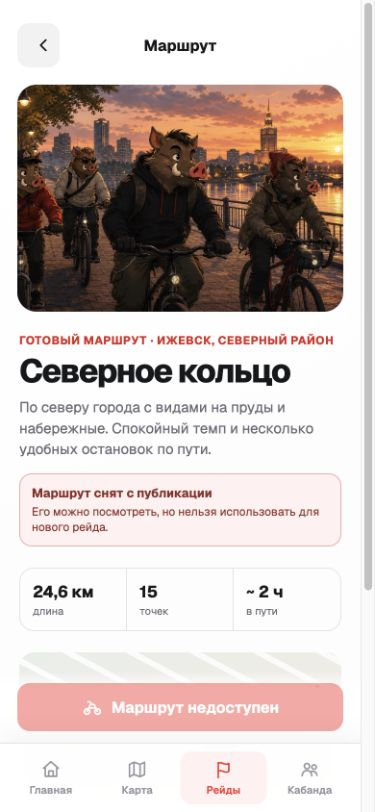
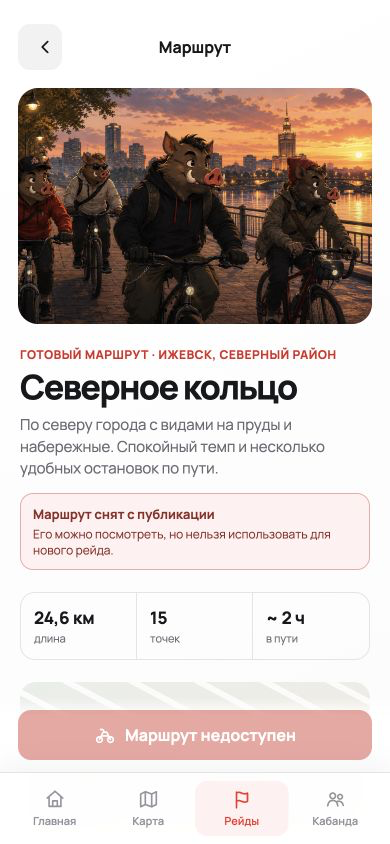
fix(design): close raids acceptance gaps

diff --git a/apps/pwa/src/features/raids-design/raids-design.css b/apps/pwa/src/features/raids-design/raids-design.css
@@ -1,13 +1,14 @@
 .rdp-root {
   --rdp-red: #f42d29;
   --rdp-red-dark: #d92824;
+  --rdp-action: #d62f2a;
   --rdp-ink: #17181b;
   --rdp-muted: #696b72;
   --rdp-line: #e4e4e7;
   min-height: 100dvh;
   color: var(--rdp-ink);
   background: #f1f1f2;
-  font-family: "Geist Variable", Geist, ui-sans-serif, system-ui, sans-serif;
+  font-family: "Manrope Variable", Manrope, ui-sans-serif, system-ui, sans-serif;
 }
 .rdp-root *, .rdp-root *::before, .rdp-root *::after { box-sizing: border-box; }
 .rdp-root button, .rdp-root select { font: inherit; }
@@ -17,7 +18,7 @@
 .rdp-page { min-height: 100dvh; padding: max(24px, env(safe-area-inset-top)) 18px calc(104px + env(safe-area-inset-bottom)); background: linear-gradient(155deg, #fff 0%, #fbfbfc 100%); }
 .rdp-heading { display: flex; min-height: 64px; align-items: start; justify-content: space-between; gap: 16px; }
 .rdp-heading h1 { margin: 5px 0 0; font-size: 40px; font-weight: 760; letter-spacing: -.055em; line-height: .95; }
-.rdp-new { display: inline-flex; min-height: 48px; align-items: center; gap: 5px; border: 0; border-radius: 12px; padding: 0 15px; color: #fff; background: linear-gradient(135deg, #f22e29, #ec3f32); box-shadow: 0 8px 18px rgb(240 46 41 / 20%); font-size: 16px; font-weight: 620; white-space: nowrap; }
+.rdp-new { display: inline-flex; min-height: 48px; align-items: center; gap: 5px; border: 0; border-radius: 12px; padding: 0 15px; color: #fff; background: linear-gradient(135deg, #d62f2a, #c92d28); box-shadow: 0 8px 18px rgb(214 47 42 / 20%); font-size: 16px; font-weight: 650; white-space: nowrap; }
 .rdp-new span { font-size: 25px; font-weight: 320; line-height: 0; }
 .rdp-section { display: grid; gap: 8px; margin-top: 14px; }
 .rdp-heading + .rdp-section { margin-top: 0; }
@@ -41,18 +42,23 @@
 .rdp-active__people { gap: 3px !important; }
 .rdp-mini-avatars { display: flex; width: 38px; flex: 0 0 38px; }
 .rdp-mini-avatars i { display: grid; width: 15px; height: 15px; margin-right: -5px; place-items: center; border: 1px solid #111; border-radius: 50%; color: #111; background: #fff; font-size: 6px; font-style: normal; font-weight: 750; }
-.rdp-active__cta { display: flex; width: 100%; min-height: 44px; align-items: center; justify-content: center; gap: 9px; border: 0; border-radius: 11px; color: #fff; background: linear-gradient(135deg, #ff2c28, #f72d29); font-size: 17px; font-weight: 640; }
+.rdp-active__cta { display: flex; width: 100%; min-height: 44px; align-items: center; justify-content: center; gap: 9px; border: 0; border-radius: 11px; color: #fff; background: linear-gradient(135deg, #d62f2a, #c92d28); font-size: 17px; font-weight: 680; }
 .rdp-idle { display: grid; grid-template-columns: auto 1fr auto; gap: 12px; align-items: center; border: 1px solid var(--rdp-line); border-radius: 17px; padding: 14px; }
 .rdp-idle > span { display: grid; width: 46px; height: 46px; place-items: center; border-radius: 50%; color: var(--rdp-red); background: #fff0ef; }
 .rdp-idle h3, .rdp-idle p { margin: 0; }.rdp-idle h3 { font-size: 15px; }.rdp-idle p { margin-top: 3px; color: var(--rdp-muted); font-size: 12px; }
-.rdp-idle button, .rdp-state button { min-height: 40px; border: 0; border-radius: 10px; padding: 0 12px; color: #fff; background: var(--rdp-red); font-weight: 650; }
+.rdp-idle button, .rdp-state button { min-height: 44px; border: 0; border-radius: 10px; padding: 0 12px; color: #fff; background: var(--rdp-action); font-weight: 680; }
 .rdp-list-card { overflow: hidden; border: 1px solid var(--rdp-line); border-radius: 15px; background: #fff; }
-.rdp-row { display: grid; width: 100%; min-height: 56px; grid-template-columns: auto minmax(0, 1fr) auto auto; gap: 9px; align-items: center; border: 0; border-bottom: 1px solid var(--rdp-line); padding: 7px 11px; color: var(--rdp-ink); background: #fff; text-align: left; }
+.rdp-row { display: grid; width: 100%; min-height: 60px; grid-template-columns: auto minmax(0, 1fr) auto; gap: 9px; align-items: center; border: 0; border-bottom: 1px solid var(--rdp-line); padding: 7px 11px; color: var(--rdp-ink); background: #fff; text-align: left; text-decoration: none; }
 .rdp-row:last-child { border-bottom: 0; }
 .rdp-row__icon { display: grid; width: 36px; height: 36px; place-items: center; border-radius: 50%; color: var(--rdp-red); background: #fff0ef; }
 .rdp-row__copy { display: grid; min-width: 0; gap: 2px; }
 .rdp-row__copy strong { overflow: hidden; font-size: 14px; font-weight: 680; text-overflow: ellipsis; white-space: nowrap; }
-.rdp-row__copy small { color: var(--rdp-muted); font-size: 12px; }
+.rdp-row__copy small { display: flex; min-width: 0; align-items: center; gap: 7px; color: var(--rdp-muted); font-size: 11px; }
+.rdp-row__copy small > span:first-child { overflow: hidden; text-overflow: ellipsis; white-space: nowrap; }
+.rdp-row__avatars { display: flex; flex: 0 0 auto; padding-left: 3px; }
+.rdp-row__avatars i { display: grid; width: 18px; height: 18px; margin-left: -4px; place-items: center; border: 1px solid #fff; border-radius: 50%; color: #fff; background: #18201c; font-size: 7px; font-style: normal; font-weight: 750; }
+.rdp-row__action { display: flex; align-items: center; gap: 6px; }
+.rdp-row__action > small { color: var(--rdp-red-dark); font-size: 10px; font-weight: 720; }
 .rdp-row__badge { border: 1px solid #ffc3c1; border-radius: 99px; padding: 4px 9px; color: var(--rdp-red-dark); font-size: 11px; font-weight: 680; white-space: nowrap; }
 .rdp-routes { display: grid; grid-auto-columns: 44%; grid-auto-flow: column; gap: 12px; overflow-x: auto; padding: 1px 1px 5px; scroll-snap-type: x mandatory; scrollbar-width: none; }
 .rdp-routes::-webkit-scrollbar { display: none; }
@@ -65,8 +71,8 @@
 .rdp-route-card__shade { position: absolute; inset: 0; background: linear-gradient(180deg, transparent 25%, rgb(0 0 0 / 15%) 48%, rgb(0 0 0 / 94%) 100%); }
 .rdp-route-card__copy { position: absolute; right: 12px; bottom: 12px; left: 12px; display: grid; gap: 8px; }
 .rdp-route-card__copy strong { font-size: 17px; font-weight: 720; letter-spacing: -.025em; line-height: 1.05; }
-.rdp-route-card__copy small { display: flex; gap: 8px; align-items: center; color: #e0e0e2; font-size: 10px; white-space: nowrap; }
-.rdp-route-card__copy small span { display: inline-flex; align-items: center; gap: 3px; }
+.rdp-route-card__copy small { display: flex; gap: 3px; align-items: center; color: #e0e0e2; font-size: 8px; white-space: nowrap; }
+.rdp-route-card__copy small span { display: inline-flex; align-items: center; gap: 1px; }
 .rdp-route-card__more { display: flex; width: 100%; min-height: 42px; align-items: center; justify-content: space-between; border: 0; padding: 0 12px; color: var(--rdp-red-dark); background: #fff; font-size: 12px; font-weight: 680; }
 .rdp-section--history { margin-bottom: 8px; }
 .rdp-row--history { grid-template-columns: auto minmax(0, 1fr) auto auto; }
@@ -97,15 +103,16 @@
 .rdp-mini-map { position: relative; height: 150px; overflow: hidden; border-radius: 16px; background: linear-gradient(135deg, #e9eee9, #f1ebe4); }.rdp-mini-map::before { position: absolute; inset: -20%; content: ""; background: repeating-linear-gradient(28deg, transparent 0 25px, rgb(255 255 255 / 80%) 25px 31px); }.rdp-mini-map svg { position: absolute; inset: 0; width: 100%; height: 100%; }.rdp-mini-map path { fill: none; stroke: var(--rdp-red); stroke-linecap: round; stroke-width: 4; }.rdp-mini-map i { position: absolute; width: 10px; height: 10px; border: 3px solid #fff; border-radius: 50%; background: var(--rdp-red); box-shadow: 0 2px 6px rgb(0 0 0 / 20%); }.rdp-mini-map i:nth-of-type(1) { top: 108px; left: 24px; }.rdp-mini-map i:nth-of-type(2) { top: 52px; left: 45%; }.rdp-mini-map i:nth-of-type(3) { top: 31px; right: 20px; }
 .rdp-inline-alert { display: grid; gap: 3px; margin-top: 14px; border: 1px solid #efaaa6; border-radius: 13px; padding: 11px 12px; color: #8e2c27; background: #fff1f0; }.rdp-inline-alert--warning { border-color: #eac381; color: #71400d; background: #fff7e9; }.rdp-inline-alert strong { font-size: 13px; }.rdp-inline-alert span { font-size: 12px; line-height: 1.35; }
 .rdp-route-points { margin-top: 20px; }.rdp-route-points summary { min-height: 44px; padding: 11px 0; font-size: 16px; font-weight: 720; cursor: pointer; }.rdp-points { display: grid; gap: 9px; margin: 0; padding: 0; list-style: none; counter-reset: points; }.rdp-points li { display: flex; align-items: center; gap: 9px; border-bottom: 1px solid var(--rdp-line); padding: 9px 0; font-size: 14px; }.rdp-points svg { color: var(--rdp-red); }
-.rdp-sticky-action { position: fixed; z-index: 29; right: 0; bottom: calc(72px + env(safe-area-inset-bottom)); left: 0; width: min(100%, 430px); margin: auto; padding: 12px 18px; background: linear-gradient(180deg, rgb(255 255 255 / 0%), #fff 25%); }.rdp-sticky-action button { display: flex; width: 100%; min-height: 50px; align-items: center; justify-content: center; gap: 9px; border: 0; border-radius: 13px; color: #fff; background: var(--rdp-red); font-weight: 680; }.rdp-sticky-action button:disabled { opacity: .45; }
+.rdp-sticky-action { position: fixed; z-index: 29; right: 0; bottom: calc(72px + env(safe-area-inset-bottom)); left: 0; width: min(100%, 430px); margin: auto; padding: 12px 18px; background: linear-gradient(180deg, rgb(255 255 255 / 0%), #fff 25%); }.rdp-sticky-action button { display: flex; width: 100%; min-height: 50px; align-items: center; justify-content: center; gap: 9px; border: 0; border-radius: 13px; color: #fff; background: var(--rdp-action); font-weight: 700; }.rdp-sticky-action button:disabled { opacity: .45; }
 .rdp-root--flow .rdp-sticky-action { bottom: env(safe-area-inset-bottom); }
 .rdp-participants__intro { padding: 4px 2px 18px; }.rdp-participants fieldset { margin: 0; border: 0; padding: 0; }.rdp-participants legend { margin-bottom: 9px; font-size: 13px; font-weight: 720; text-transform: uppercase; color: var(--rdp-red-dark); }.rdp-participants label { display: grid; min-height: 66px; grid-template-columns: auto 1fr auto; gap: 12px; align-items: center; border-bottom: 1px solid var(--rdp-line); }.rdp-avatar { display: grid; width: 44px; height: 44px; place-items: center; border-radius: 50%; color: #fff; background: #151e1a; font-weight: 670; }.rdp-participants label > span:nth-child(2) { display: grid; gap: 2px; }.rdp-participants label strong { font-size: 15px; }.rdp-participants label small { color: var(--rdp-muted); font-size: 12px; }.rdp-participants input { width: 22px; height: 22px; accent-color: var(--rdp-red); }
 .rdp-participant--disabled { opacity: .48; }
+.rdp-participants fieldset:disabled label { opacity: .58; }
 .rdp-schedule > section { display: grid; gap: 12px; }.rdp-schedule h1 { margin: 0; font-size: 34px; letter-spacing: -.045em; }.rdp-schedule section > p:not(.rdp-eyebrow) { margin: -4px 0 10px; color: var(--rdp-muted); font-size: 14px; }.rdp-schedule label { display: grid; gap: 6px; color: var(--rdp-muted); font-size: 12px; font-weight: 650; }.rdp-schedule input { min-width: 0; min-height: 48px; border: 1px solid var(--rdp-line); border-radius: 12px; padding: 0 12px; color: var(--rdp-ink); background: #fff; }.rdp-schedule__grid { display: grid; grid-template-columns: 1fr 1fr; gap: 10px; }
-.rdp-success { display: grid; place-content: center; justify-items: center; text-align: center; }.rdp-success > span { display: grid; width: 72px; height: 72px; place-items: center; margin-bottom: 18px; border-radius: 50%; color: #fff; background: var(--rdp-red); }.rdp-success > button { min-height: 48px; margin-top: 22px; border: 0; border-radius: 12px; padding: 0 18px; color: #fff; background: var(--rdp-red); font-weight: 680; }
-.rdp-sheet-layer { position: fixed; z-index: 100; inset: 0; display: flex; align-items: end; justify-content: center; padding: 16px; background: rgb(10 11 12 / 48%); backdrop-filter: blur(3px); }.rdp-sheet { width: min(100%, 430px); border-radius: 24px; padding: 8px 18px max(18px, env(safe-area-inset-bottom)); background: #fff; box-shadow: 0 -20px 60px rgb(0 0 0 / 22%); }.rdp-sheet__handle { display: block; width: 38px; height: 4px; margin: 0 auto 14px; border-radius: 99px; background: #d7d7da; }.rdp-sheet__head { display: flex; align-items: start; justify-content: space-between; margin-bottom: 12px; }.rdp-sheet__head h2 { margin: 0; font-size: 26px; letter-spacing: -.035em; }.rdp-sheet__head > button { display: grid; width: 40px; min-height: 40px; place-items: center; border: 0; border-radius: 50%; color: var(--rdp-muted); background: #f2f2f3; font-size: 25px; }.rdp-sheet-choice { display: grid; width: 100%; min-height: 72px; grid-template-columns: auto 1fr auto; gap: 12px; align-items: center; border: 0; border-top: 1px solid var(--rdp-line); padding: 10px 0; color: var(--rdp-ink); background: #fff; text-align: left; }.rdp-sheet-choice > span:first-child { display: grid; width: 44px; height: 44px; place-items: center; border-radius: 50%; color: var(--rdp-red); background: #fff0ef; }.rdp-sheet-choice > span:nth-child(2) { display: grid; gap: 3px; }.rdp-sheet-choice strong { font-size: 16px; }.rdp-sheet-choice small { color: var(--rdp-muted); font-size: 12px; }
+.rdp-success { display: grid; place-content: center; justify-items: center; text-align: center; }.rdp-success > span { display: grid; width: 72px; height: 72px; place-items: center; margin-bottom: 18px; border-radius: 50%; color: #fff; background: var(--rdp-action); }.rdp-success > button { min-height: 48px; margin-top: 22px; border: 0; border-radius: 12px; padding: 0 18px; color: #fff; background: var(--rdp-action); font-weight: 700; }
+.rdp-sheet-layer { position: fixed; z-index: 100; inset: 0; display: flex; align-items: end; justify-content: center; padding: 16px; background: rgb(10 11 12 / 48%); backdrop-filter: blur(3px); }.rdp-sheet { width: min(100%, 430px); border-radius: 24px; padding: 8px 18px max(18px, env(safe-area-inset-bottom)); background: #fff; box-shadow: 0 -20px 60px rgb(0 0 0 / 22%); }.rdp-sheet__handle { display: block; width: 38px; height: 4px; margin: 0 auto 14px; border-radius: 99px; background: #d7d7da; }.rdp-sheet__head { display: flex; align-items: start; justify-content: space-between; margin-bottom: 12px; }.rdp-sheet__head h2 { margin: 0; font-size: 26px; letter-spacing: -.035em; }.rdp-sheet__head > button { display: grid; width: 44px; min-height: 44px; place-items: center; border: 0; border-radius: 50%; color: var(--rdp-muted); background: #f2f2f3; font-size: 25px; }.rdp-sheet-choice { display: grid; width: 100%; min-height: 72px; grid-template-columns: auto 1fr auto; gap: 12px; align-items: center; border: 0; border-top: 1px solid var(--rdp-line); padding: 10px 0; color: var(--rdp-ink); background: #fff; text-align: left; }.rdp-sheet-choice > span:first-child { display: grid; width: 44px; height: 44px; place-items: center; border-radius: 50%; color: var(--rdp-red); background: #fff0ef; }.rdp-sheet-choice > span:nth-child(2) { display: grid; gap: 3px; }.rdp-sheet-choice strong { font-size: 16px; }.rdp-sheet-choice small { color: var(--rdp-muted); font-size: 12px; }
 .rdp-review { position: fixed; z-index: 150; top: 16px; left: 16px; display: grid; width: 210px; gap: 8px; border: 1px solid var(--rdp-line); border-radius: 14px; padding: 12px; background: rgb(255 255 255 / 94%); box-shadow: 0 12px 30px rgb(0 0 0 / 12%); backdrop-filter: blur(10px); }.rdp-review label { display: grid; grid-template-columns: 70px 1fr; align-items: center; font-size: 12px; }.rdp-review select { min-width: 0; min-height: 34px; border: 1px solid var(--rdp-line); border-radius: 8px; background: #fff; }
-@media (max-width: 350px) { .rdp-page { padding-right: 12px; padding-left: 12px; }.rdp-heading h1 { font-size: 36px; }.rdp-new { min-height: 44px; padding: 0 11px; font-size: 14px; }.rdp-active__intro { grid-template-columns: 82px 1fr; }.rdp-active__intro img { width: 82px; }.rdp-active__intro h3 { font-size: 19px; }.rdp-active__metrics svg { display: none; }.rdp-row__meta { display: none; }.rdp-routes { grid-auto-columns: 47%; } }
+@media (max-width: 350px) { .rdp-page { padding-right: 12px; padding-left: 12px; }.rdp-heading h1 { font-size: 36px; }.rdp-new { min-height: 44px; padding: 0 11px; font-size: 14px; }.rdp-active__intro { grid-template-columns: 82px 1fr; }.rdp-active__intro img { width: 82px; }.rdp-active__intro h3 { font-size: 19px; }.rdp-active__metrics svg { display: none; }.rdp-row__meta, .rdp-row__action > small { display: none; }.rdp-routes { grid-auto-columns: 47%; } }
 @media (min-width: 390px) and (max-width: 699px) { .rdp-routes { grid-auto-columns: calc((100% - 24px) / 3); } }
 @media (min-width: 700px) { .rdp-root { padding: 32px 0; }.rdp-app { min-height: calc(100dvh - 64px); border-radius: 34px; overflow: hidden; }.rdp-page { min-height: calc(100dvh - 64px); }.rdp-tabbar { bottom: 32px; border-radius: 0 0 34px 34px; }.rdp-sticky-action { bottom: 104px; } }
 @media (min-width: 700px) { .rdp-root--flow .rdp-sticky-action { bottom: 32px; } }

diff --git a/apps/pwa/src/features/raids-design/RaidsDesignPrototype.tsx b/apps/pwa/src/features/raids-design/RaidsDesignPrototype.tsx
@@ -1,5 +1,5 @@
 import { useEffect, useMemo, useRef, useState, type ReactNode, type RefObject } from 'react'
-import '@fontsource-variable/geist'
+import '@fontsource-variable/manrope'
 import { appPath } from '../../lib/paths'
 import {
   parseRaidsDesignScreen,
@@ -42,6 +42,24 @@ function Icon({ name, size = 22 }: { name: IconName; size?: number }) {
 
 type ParticipantOrigin = 'quick' | 'route' | 'schedule'
 
+const routePreviewPoints = [
+  'Набережная Ижевского пруда',
+  'Летний сад и ротонда',
+  'Монумент дружбы народов',
+  'Площадь оружейников',
+  'Михайловская колонна',
+  'Северная набережная',
+  'Парк имени Кирова',
+  'Пешеходный мост',
+  'Смотровая у пруда',
+  'Улица Песочная',
+  'Северный сквер',
+  'Парк Космонавтов',
+  'Тихая велодорожка',
+  'Городская эспланада',
+  'Финиш у набережной',
+]
+
 function parseParticipantOrigin(value: string | null): ParticipantOrigin {
   return value === 'quick' || value === 'schedule' ? value : 'route'
 }
@@ -56,6 +74,7 @@ function updatePrototypeUrl(screen: RaidsDesignScreen, variant: RaidsDesignVaria
   else url.searchParams.delete('route')
   if (origin && (screen === 'participants' || screen === 'scheduled')) url.searchParams.set('origin', origin)
   else url.searchParams.delete('origin')
+  if (screen !== 'participants') url.searchParams.delete('participant')
   window.history.pushState({}, '', url)
 }
 
@@ -144,11 +163,11 @@ function RaidHub({ newButtonRef, onNew, onPreview, variant }: { newButtonRef: Re
           <h2 id="upcoming-heading">Предстоящие</h2>
           {upcomingEmpty ? <CompactEmpty icon="calendar" text="Пока ничего не запланировано" /> : <div className="rdp-list-card">
             {variant === 'upcoming-cases' ? <>
-              <UpcomingRow places="Открыть" subtitle="Сегодня, 31 августа · 19:00 · подтверждений пока нет" title="По Ленина — очень длинное название вечернего заезда" />
-              <UpcomingRow places="Начать" subtitle="Завтра, 1 сентября · 11:00 · 4 участника · можно начинать" title="Центр Ижевска" />
+              <UpcomingRow action="Открыть" avatars={[]} id="lenina-evening" places="0 заявок" subtitle="Понедельник, 31 августа · Сегодня · 19:00" title="По Ленина — очень длинное название вечернего заезда" />
+              <UpcomingRow action="Начать" id="city-center" places="4 едут" subtitle="Вторник, 1 сентября · Завтра · 11:00" title="Центр Ижевска" />
             </> : <>
-              <UpcomingRow places="7 мест" subtitle="Сегодня, 31 августа · 19:00 · 5 участников" title="По Ленина — вечерний заезд" />
-              <UpcomingRow places="8 мест" subtitle="Завтра, 1 сентября · 11:00 · 4 участника" title="Центр Ижевска" />
+              <UpcomingRow id="lenina-evening" places="7 мест" subtitle="Понедельник, 31 августа · Сегодня · 19:00" title="По Ленина — вечерний заезд" />
+              <UpcomingRow id="city-center" places="8 мест" subtitle="Вторник, 1 сентября · Завтра · 11:00" title="Центр Ижевска" />
             </>}
           </div>}
         </section>
@@ -163,8 +182,8 @@ function RaidHub({ newButtonRef, onNew, onPreview, variant }: { newButtonRef: Re
         <section aria-labelledby="history-heading" className="rdp-section rdp-section--history">
           <h2 id="history-heading">История</h2>
           {isEmpty ? <CompactEmpty icon="flag" text="Первый рейд ещё впереди" /> : <div className="rdp-list-card">
-            <HistoryRow meta="19,4 км · 14 точек" subtitle="17 мая 2025 · 10:30 · 1 ч 32 мин · Вы участвовали · 4 человека" title="Набережная кругом" />
-            <HistoryRow meta="22,7 км · 16 точек" subtitle="10 мая 2025 · 11:00 · 1 ч 48 мин · 5 участников" title="Индустриальный маршрут" />
+            <HistoryRow id="embankment-loop" meta="19,4 км · 14 точек" subtitle="17 мая 2025 · 10:30 · 1 ч 32 мин · Вы участвовали · 4 человека" title="Набережная кругом" />
+            <HistoryRow id="industrial-route" meta="22,7 км · 16 точек" subtitle="10 мая 2025 · 11:00 · 1 ч 48 мин · 5 участников" title="Индустриальный маршрут" />
           </div>}
         </section>
       </>}
@@ -197,20 +216,20 @@ function IdleRaid({ onNew }: { onNew: () => void }) {
   return <div className="rdp-idle"><span><Icon name="bike" size={28} /></span><div><h3>Сегодня ещё не катались</h3><p>Соберите Кабанду и начните новый рейд.</p></div><button onClick={onNew} type="button">Поехали</button></div>
 }
 
-function UpcomingRow({ places, subtitle, title }: { places: string; subtitle: string; title: string }) {
-  return <button className="rdp-row" type="button"><span className="rdp-row__icon"><Icon name="calendar" /></span><span className="rdp-row__copy"><strong>{title}</strong><small>{subtitle}</small></span><span className="rdp-row__badge">{places}</span><Icon name="chevron" size={19} /></button>
+function UpcomingRow({ action = 'Открыть', avatars = ['П', 'М', '+3'], id, places, subtitle, title }: { action?: string; avatars?: string[]; id: string; places: string; subtitle: string; title: string }) {
+  return <a aria-label={`${action}: ${title}`} className="rdp-row" href={`${appPath('app')}?tab=raids&raid=${id}`}><span className="rdp-row__icon"><Icon name="calendar" /></span><span className="rdp-row__copy"><strong>{title}</strong><small><span>{subtitle}</span>{avatars.length > 0 && <span aria-label={`${avatars.length > 2 ? '5' : avatars.length} участников`} className="rdp-row__avatars">{avatars.map((avatar) => <i aria-hidden="true" key={avatar}>{avatar}</i>)}</span>}</small></span><span className="rdp-row__action"><span className="rdp-row__badge">{places}</span><small>{action}</small><Icon name="chevron" size={19} /></span></a>
 }
 
-function HistoryRow({ meta, subtitle, title }: { meta: string; subtitle: string; title: string }) {
-  return <button className="rdp-row rdp-row--history" type="button"><span className="rdp-row__icon rdp-row__icon--history"><Icon name="flag" /></span><span className="rdp-row__copy"><strong>{title}</strong><small>{subtitle}</small></span><span className="rdp-row__meta">{meta}</span><Icon name="chevron" size={19} /></button>
+function HistoryRow({ id, meta, subtitle, title }: { id: string; meta: string; subtitle: string; title: string }) {
+  return <a aria-label={`Открыть результат: ${title}`} className="rdp-row rdp-row--history" href={`${appPath('app')}?tab=raids&raid=${id}`}><span className="rdp-row__icon rdp-row__icon--history"><Icon name="flag" /></span><span className="rdp-row__copy"><strong>{title}</strong><small>{subtitle}</small></span><span className="rdp-row__meta">{meta}</span><Icon name="chevron" size={19} /></a>
 }
 
 function RouteCard({ index, noCover = false, onOpen, route }: { index: number; noCover?: boolean; onOpen: () => void; route: RouteCardData }) {
-  return <a aria-label={`Открыть маршрут: ${route.title}`} className={`rdp-route-card rdp-route-card--${index + 1}`} href="?screen=preview" onClick={(event) => { event.preventDefault(); onOpen() }}>
+  return <a aria-label={`Открыть маршрут: ${route.title}. ${route.description}. ${route.distance}, около 2 часов, ${route.points} точек`} className={`rdp-route-card rdp-route-card--${index + 1}`} href={`?screen=preview&route=${route.id}`} onClick={(event) => { if (event.button === 0 && !event.metaKey && !event.ctrlKey && !event.shiftKey && !event.altKey) { event.preventDefault(); onOpen() } }}>
     <span className={`rdp-route-card__visual${noCover ? ' rdp-route-card__visual--fallback' : ''}`}>
       {noCover ? <span className="rdp-route-fallback"><Icon name="route" size={34} /><small>Фото появится позже</small></span> : <img alt="" src={appPath(index === 1 ? 'brand/kabanda-login-riders.jpg' : 'brand/kabanda-team-cover.jpg')} style={{ objectPosition: route.imagePosition }} />}
       <span className="rdp-route-card__shade" />
-      <span className="rdp-route-card__copy"><strong>{route.title}</strong><small><span><Icon name="route" size={15} /> {route.distance}</span><span><Icon name="flag" size={15} /> {route.points} точек</span></small></span>
+      <span className="rdp-route-card__copy"><strong>{route.title}</strong><small><span><Icon name="route" size={12} /> {route.distance}</span><span><Icon name="clock" size={12} /> ~2ч</span><span><Icon name="flag" size={12} /> {route.points}</span></small></span>
     </span>
     <span className="rdp-route-card__more"><span>Подробнее</span><Icon name="chevron" size={17} /></span>
   </a>
@@ -234,7 +253,7 @@ function RoutePreview({ onBack, onRide, route, variant }: { onBack: () => void; 
       {partial && <div className="rdp-inline-alert rdp-inline-alert--warning" role="status"><strong>2 точки временно недоступны</strong><span>Перед стартом покажем актуальную последовательность.</span></div>}
       <dl><div><dt>{route.distance}</dt><dd>длина</dd></div><div><dt>{route.points}</dt><dd>точек</dd></div><div><dt>~ 2 ч</dt><dd>в пути</dd></div></dl>
       <div className="rdp-mini-map" aria-label="Схема маршрута" role="img"><svg viewBox="0 0 320 150"><path d="M18 120c55-8 52-72 107-62 40 7 48 64 99 38 27-14 34-45 77-58" /></svg><i /><i /><i /></div>
-      <details className="rdp-route-points" open><summary>Точки маршрута · {route.points}</summary><ol className="rdp-points"><li><Icon name="pin" />Набережная Ижевского пруда</li><li><Icon name="pin" />Летний сад и ротонда</li><li><Icon name="pin" />Северная часть города</li></ol></details>
+      <details className="rdp-route-points"><summary>Открыть {route.points} точек маршрута</summary><ol className="rdp-points">{routePreviewPoints.slice(0, route.points).map((point) => <li key={point}><Icon name="pin" />{point}</li>)}</ol></details>
     </section>
     <div className="rdp-sticky-action"><button disabled={unavailable} onClick={onRide} type="button"><Icon name="bike" /> {unavailable ? 'Маршрут недоступен' : 'Поехать по маршруту'}</button></div>
   </div>
@@ -253,14 +272,16 @@ function ScheduleRaid({ onBack, onContinue }: { onBack: () => void; onContinue: 
 
 function ParticipantPicker({ designState, onBack, onDone, origin, route }: { designState: ParticipantDesignState; onBack: () => void; onDone: () => void; origin: 'quick' | 'route' | 'schedule'; route: RouteCardData }) {
   const people = designState === 'long' ? longParticipantList : participants
+  const permissionDenied = designState === 'permission-error'
   const [selected, setSelected] = useState(() => new Set(['pavel', 'motor', 'lesha']))
   const [hasError, setHasError] = useState(designState === 'error')
   const [submitting, setSubmitting] = useState(false)
+  useEffect(() => setHasError(designState === 'error'), [designState])
   const toggle = (id: string) => setSelected((current) => { const next = new Set(current); if (next.has(id)) next.delete(id); else next.add(id); return next })
   const submit = () => {
-    if (hasError) { setHasError(false); return }
     if (submitting) return
     setSubmitting(true)
+    if (hasError) setHasError(false)
     window.setTimeout(onDone, 350)
   }
   const source = origin === 'route' ? route.title : origin === 'schedule' ? 'Вечерний рейд · завтра в 19:00' : 'Свободный рейд · прямо сейчас'
@@ -268,14 +289,20 @@ function ParticipantPicker({ designState, onBack, onDone, origin, route }: { des
     <header className="rdp-subhead"><button aria-label="Назад" onClick={onBack} type="button"><Icon name="arrow" /></button><strong>Участники</strong><span /></header>
     <section className="rdp-participants__intro"><p className="rdp-eyebrow">{source}</p><h1>Кто сегодня едет?</h1><p>Отметьте участников и подтвердите состав перед стартом.</p></section>
     {hasError && <div className="rdp-inline-alert" role="alert"><strong>Не удалось создать рейд</strong><span>Выбор сохранён. Проверьте сеть и нажмите «Повторить».</span></div>}
-    <fieldset><legend>Состав Кабанды · {people.length}</legend>{people.map((person) => <label className={person.disabled ? 'rdp-participant--disabled' : undefined} key={person.id}><span className="rdp-avatar">{person.initial}</span><span><strong>{person.name}</strong><small>{person.role}</small></span><input checked={selected.has(person.id)} disabled={person.disabled} onChange={() => toggle(person.id)} type="checkbox" /></label>)}</fieldset>
-    <div className="rdp-sticky-action"><button disabled={selected.size === 0 || submitting} onClick={submit} type="button">{submitting ? 'Создаём рейд…' : hasError ? `Повторить · ${selected.size}` : `Поехали · ${selected.size}`}</button></div>
+    {permissionDenied && <div className="rdp-inline-alert" role="alert"><strong>Недостаточно прав</strong><span>Начать этот рейд может только вожак Кабанды.</span></div>}
+    <fieldset disabled={permissionDenied}><legend>Состав Кабанды · {people.length}</legend>{people.map((person) => <label className={person.disabled ? 'rdp-participant--disabled' : undefined} key={person.id}><span className="rdp-avatar">{person.initial}</span><span><strong>{person.name}</strong><small>{person.role}</small></span><input checked={selected.has(person.id)} disabled={person.disabled} onChange={() => toggle(person.id)} type="checkbox" /></label>)}</fieldset>
+    <div className="rdp-sticky-action"><button disabled={!permissionDenied && (selected.size === 0 || submitting)} onClick={permissionDenied ? onBack : submit} type="button">{permissionDenied ? 'Вернуться' : submitting ? 'Создаём рейд…' : hasError ? `Повторить · ${selected.size}` : `Поехали · ${selected.size}`}</button></div>
   </div>
 }
 
 function ScheduledSuccess({ onBack, origin, route }: { onBack: () => void; origin: ParticipantOrigin; route: RouteCardData }) {
   const planned = origin === 'schedule'
-  return <div className="rdp-page rdp-success"><span><Icon name="flag" size={34} /></span><p className="rdp-eyebrow">{planned ? 'РЕЙД ЗАПЛАНИРОВАН' : 'ЛОББИ ОТКРЫТО'}</p><h1>{planned ? 'Рейд запланирован' : 'Кабанда собирается'}</h1><p>{planned ? 'Вечерний рейд появился в предстоящих. Участники увидят его в Кабанде.' : `${route.title}: состав подтверждён, можно переходить в лобби и начинать.`}</p><button onClick={onBack} type="button">{planned ? 'Вернуться к рейдам' : 'Перейти в лобби'}</button></div>
+  const description = planned
+    ? 'Вечерний рейд появился в предстоящих. Участники увидят его в Кабанде.'
+    : origin === 'quick'
+      ? 'Свободный рейд создан. Три участника подтвердили состав — это уже открытое лобби.'
+      : `${route.title}: три участника подтвердили состав — это уже открытое лобби.`
+  return <div className="rdp-page rdp-success"><span><Icon name="flag" size={34} /></span><p className="rdp-eyebrow">{planned ? 'РЕЙД ЗАПЛАНИРОВАН' : 'ЛОББИ ОТКРЫТО'}</p><h1>{planned ? 'Рейд запланирован' : 'Кабанда собирается'}</h1><p>{description}</p><button onClick={onBack} type="button">Вернуться к рейдам</button></div>
 }
 
 function NewRaidSheet({ onClose, onQuick, onSchedule }: { onClose: () => void; onQuick: () => void; onSchedule: () => void }) {

diff --git a/apps/pwa/src/features/raids-design/model.ts b/apps/pwa/src/features/raids-design/model.ts
@@ -11,7 +11,7 @@ export type RaidsDesignVariant =
   | 'fallback'
   | 'archived'
   | 'partial-error'
-export type ParticipantDesignState = 'default' | 'long' | 'error'
+export type ParticipantDesignState = 'default' | 'long' | 'error' | 'permission-error'
 
 export interface ParticipantData {
   id: string
@@ -35,7 +35,7 @@ export const raidsDesignVariants: RaidsDesignVariant[] = [
   'archived',
   'partial-error',
 ]
-export const participantDesignStates: ParticipantDesignState[] = ['default', 'long', 'error']
+export const participantDesignStates: ParticipantDesignState[] = ['default', 'long', 'error', 'permission-error']
 
 export function parseRaidsDesignScreen(value: string | null): RaidsDesignScreen {
   return raidsDesignScreens.includes(value as RaidsDesignScreen) ? value as RaidsDesignScreen : 'hub'

diff --git a/apps/pwa/src/features/raids-design/model.test.ts b/apps/pwa/src/features/raids-design/model.test.ts
@@ -33,6 +33,7 @@ describe('raids design prototype model', () => {
     expect(longParticipantList).toHaveLength(20)
     expect(longParticipantList.some((participant) => participant.disabled)).toBe(true)
     expect(parseParticipantDesignState('long')).toBe('long')
+    expect(parseParticipantDesignState('permission-error')).toBe('permission-error')
     expect(parseParticipantDesignState('unknown')).toBe('default')
   })
 })

diff --git a/docs/design/RAIDS_PROTOTYPE_EVIDENCE.md b/docs/design/RAIDS_PROTOTYPE_EVIDENCE.md
@@ -26,13 +26,16 @@
 - `docs/design/evidence/raids-participants-430x900.png` — экран выбора участников.
 - `docs/design/evidence/raids-state-active-390x844.png` — активный рейд;
 - `docs/design/evidence/raids-state-idle-390x844.png` — компактное отсутствие активного рейда;
-- `docs/design/evidence/raids-state-loading-390x844.png` и `raids-state-empty-390x844.png` — skeleton и empty;
+- `docs/design/evidence/raids-state-loading-390x844.png`, `raids-state-empty-390x844.png` и `raids-state-upcoming-empty-390x844.png` — skeleton и empty;
+- `docs/design/evidence/raids-state-catalog-error-390x844.png` — изолированная ошибка каталога;
 - `docs/design/evidence/raids-state-offline-390x844.png` и `raids-state-fallback-390x844.png` — stale и отсутствующая обложка;
 - `docs/design/evidence/raids-upcoming-cases-390x844.png` — длинное имя, отсутствие подтверждений и доступный старт;
 - `docs/design/evidence/raids-sheet-new-390x844.png` — chooser;
-- `docs/design/evidence/raids-preview-390x844.png` и `raids-preview-archived-390x844.png` — normal/archived preview;
+- `docs/design/evidence/raids-preview-390x844.png`, `raids-preview-archived-390x844.png`, `raids-preview-partial-390x844.png` и `raids-preview-fallback-390x844.png` — normal/archived/partial/fallback preview;
 - `docs/design/evidence/raids-schedule-390x844.png` — планирование;
-- `docs/design/evidence/raids-participants-long-390x844.png` и `raids-participants-error-390x844.png` — 20 человек и retry error;
+- `docs/design/evidence/raids-participants-long-390x844.png`, `raids-participants-error-390x844.png` и `raids-participants-permission-390x844.png` — 20 человек, retry и permission error;
+- `docs/design/evidence/raids-result-lobby-390x844.png` и `raids-result-scheduled-390x844.png` — результаты быстрого старта и планирования;
+- `docs/design/evidence/raids-text-120-390x844.png` — smoke увеличенного текста;
 - `docs/design/evidence/raids-desktop-1440x900.png` — адаптивный desktop.
 
 Промежуточные изображения после итераций не хранятся в репозитории; в handoff оставлены только итоговые и проверочные кадры.
@@ -65,7 +68,7 @@
 6. disabled-участник недоступен, выбор сохраняется после server error, повторная отправка защищена состоянием submitting.
 7. быстрый старт заканчивается открытым lobby, планирование — состоянием `Рейд запланирован`.
 
-Также проверены прямые query-состояния `idle`, `loading`, `catalog-error`, `partial-error`, `empty`, `upcoming-empty`, `upcoming-cases`, `offline`, `fallback`, `archived`, participant `long/error`.
+Также проверены прямые query-состояния `idle`, `loading`, `catalog-error`, `partial-error`, `empty`, `upcoming-empty`, `upcoming-cases`, `offline`, `fallback`, `archived`, participant `long/error/permission-error`.
 
 Keyboard smoke: focus trap цикличен, Escape закрывает chooser, фокус возвращается на `Новый рейд`.
 
@@ -75,7 +78,9 @@ Keyboard smoke: focus trap цикличен, Escape закрывает chooser, 
 - `pnpm --filter @kabanda/pwa test`
 - `pnpm --filter @kabanda/pwa build`
 
-Unit tests фиксируют допустимые query states, полноту карточек маршрутов, 20 участников и disabled member. Последний прогон: 31 файл, 110 тестов — passed.
+Unit tests фиксируют допустимые query states, полноту карточек маршрутов, 20 участников и disabled member. После объединения с актуальной картой последний PWA-прогон: 32 файла, 111 тестов — passed. Полный `pnpm check` также включает domain, API, stand и data-validation тесты.
+
+Все финальные `*-390x844.png` имеют фактический размер 390×844 и PNG-кодирование; desktop evidence — 1440×900 PNG.
 
 ## Остался пользовательский acceptance
 

diff --git a/docs/design/RAIDS_UX_HANDOFF.md b/docs/design/RAIDS_UX_HANDOFF.md
@@ -64,7 +64,8 @@ Section gap: 14 px
 Card radius: 15–18 px
 Primary control height: 44–50 px
 Bottom navigation: 72 px + safe area
-Font: Geist Variable
+Font: Manrope Variable
+Primary action: #D62F2A (контраст белого текста 4.88:1)
 ```
 
 ## State matrix
@@ -78,7 +79,7 @@ Font: Geist Variable
 | Hub | empty / offline stale | `variant=empty`, `variant=offline` |
 | Preview | normal / archived / partial error / fallback | `screen=preview`, дополнительно соответствующий `variant` |
 | Планирование | дата и время | `screen=schedule` |
-| Участники | default / 20 человек / retry error | `screen=participants`, `participant=long`, `participant=error` |
+| Участники | default / 20 человек / retry error / permission error | `screen=participants`, `participant=long`, `participant=error`, `participant=permission-error` |
 | Результат создания | lobby / scheduled | `screen=scheduled&origin=quick`, `screen=scheduled&origin=schedule` |
 | New raid | bottom sheet | кнопка `Новый рейд` |
 
@@ -106,8 +107,9 @@ Font: Geist Variable
 - финальный каталог — плотная горизонтальная лента как в утверждаемом референсе; вертикальный список и одиночная hero-карточка отклонены, потому что вытесняют историю ниже первого экрана;
 - route preview — отдельный routable экран, а не sheet: так последовательность точек помещается без вложенного скролла;
 - route template и реальный upcoming raid визуально разведены: изображение-каталог против компактной календарной строки;
+- upcoming и history являются ссылками; календарь/флаг служат стабильным fallback при отсутствии cover;
 - один `ParticipantPicker` используется для быстрого старта, маршрута и планирования;
-- route cards сохраняют плотность референса, а описание и примерная длительность раскрываются в preview;
+- route cards сохраняют плотность референса: расстояние, длительность и количество точек видны сразу, полное описание раскрывается в preview и входит в accessible name;
 - desktop использует те же четыре блока с сеткой 2 + 3 колонки, без отдельной информационной архитектуры.
 
 ## Ограничения дизайн-задачи
